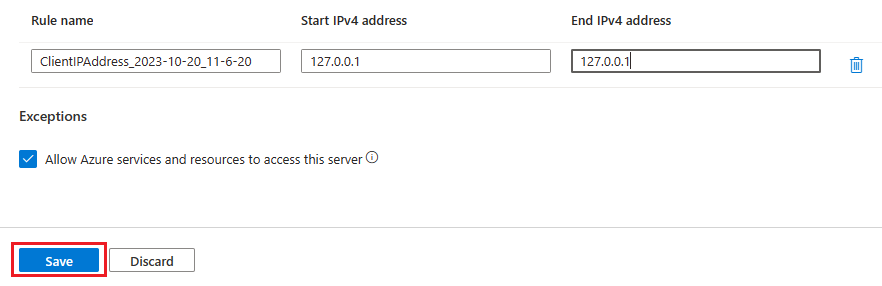
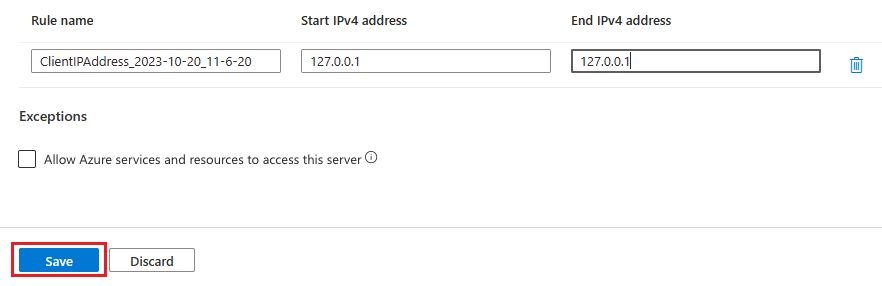
ch2

Changed region(s): [[0.0, 0.5315, 0.4286, 0.5874]]

diff --git a/docs/2-create-azure-SQL-database.md b/docs/2-create-azure-SQL-database.md
@@ -128,10 +128,6 @@ The next section of the workshop you will be creating and connecting to an Azure
 
     ![A picture of clicking the button labeled "Add your client IPv4 address (X.X.X.X)" to add your local IP address for database access](./media/ch2/deploy1v.png)
 
-1. Click the **checkbox** for **Allow Azure services and resources to access this server** in the **Exceptions** section.
-
-    ![A picture of clicking the checkbox for Allow Azure services and resources to access this server in the Exceptions section](./media/ch2/deploy1w.png)
-
 1. Finally, click the **Save** button in the lower left of the page.
 
     ![A picture of clicking the save button in the lower left of the page](./media/ch2/deploy1x.png)
